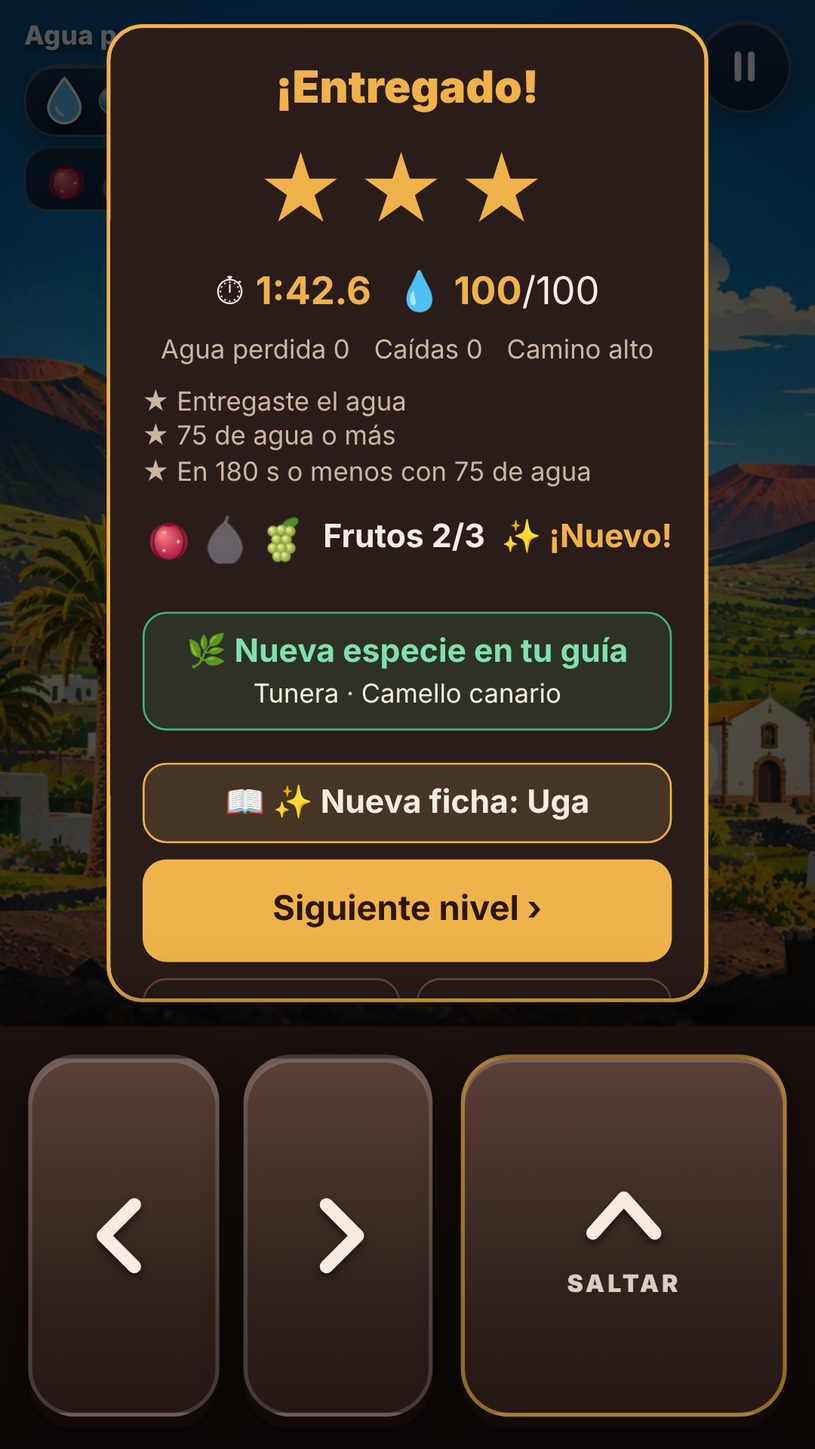
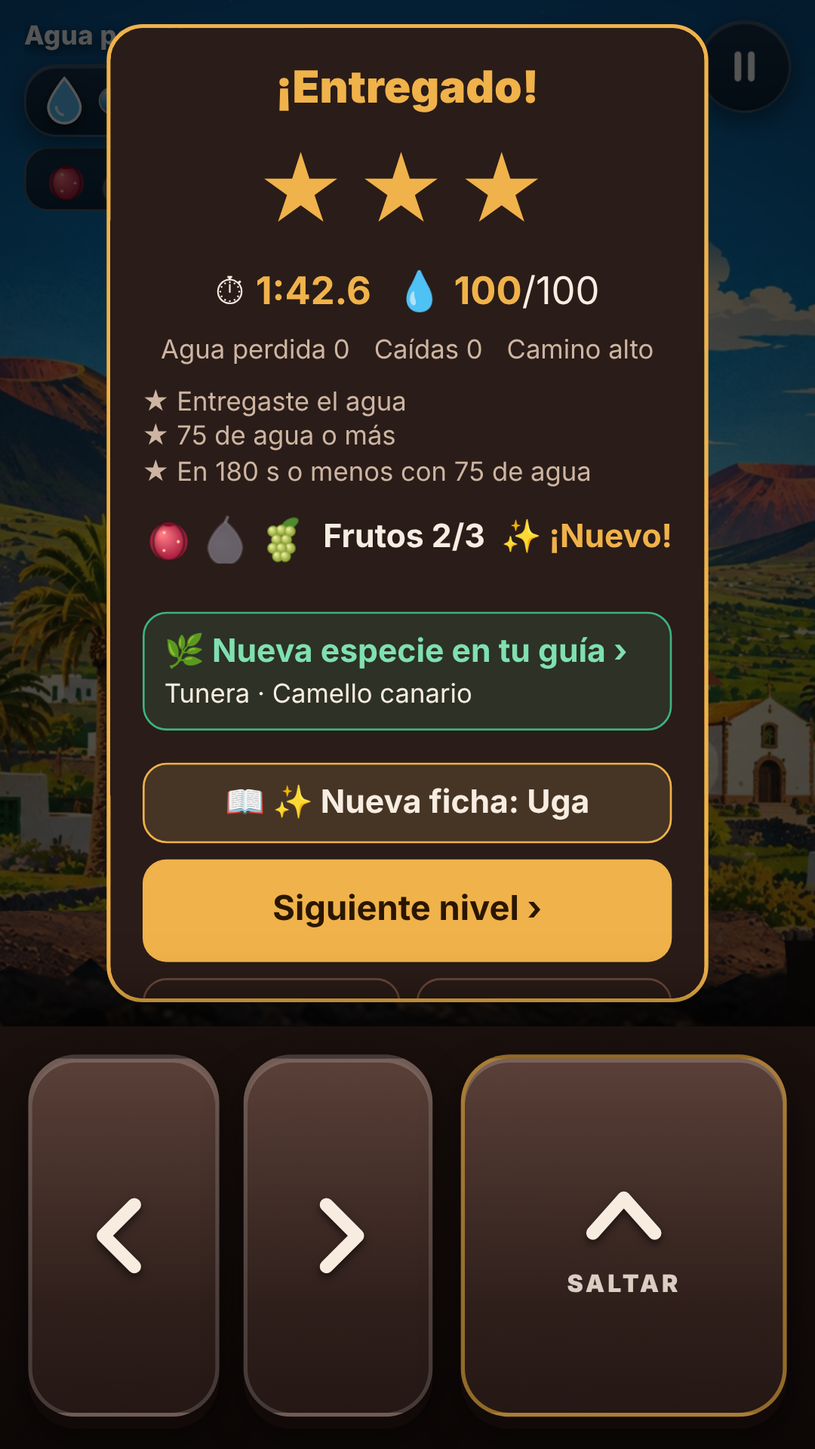
Parras de La Geria más fieles (hoyos, zanjas y zocos en media luna) y avisos del final que abren la guía y el cuaderno
Claude-Session: https://claude.ai/code/session_01H2Jf8v1MHtV6zTpVoU4WWj

Changed region(s): [[0.1833, 0.4375, 0.7639, 0.5]]

diff --git a/docs/app/i18n-fr.js b/docs/app/i18n-fr.js
@@ -2834,7 +2834,19 @@ window.I18N["fr:martin"] = Object.assign(window.I18N["fr:martin"] || {}, {
 "Ministerio de Agricultura: libro genealógico de la raza Camello Canario": "Ministère espagnol de l'Agriculture : livre généalogique de la race Chameau canarien",
 "Un pequeño crustáceo de color rojo que vive en las salinas.": "Un petit crustacé rouge qui vit dans les salines.",
 "Junto con un alga, Dunaliella salina, da a las salinas de Janubio su color rojizo.": "Avec une algue, Dunaliella salina, elle donne aux salines de Janubio leur couleur rougeâtre.",
-"Banco de Datos de Biodiversidad de Canarias: pita": "Banque de données sur la biodiversité des Canaries : agave"
+"Banco de Datos de Biodiversidad de Canarias: pita": "Banque de données sur la biodiversité des Canaries : agave",
+"Parra (vid)": "Vigne (parra)",
+"En Lanzarote se cultiva de dos formas tradicionales: en hoyos y en zanjas. Los hoyos se excavan en forma de cono en el picón para que la parra llegue a la tierra de debajo; las zanjas tienen muros que las separan.": "À Lanzarote, on la cultive de deux façons traditionnelles : en trous et en tranchées. Les trous sont creusés en cône dans le picón pour que la vigne atteigne la terre en dessous ; les tranchées sont séparées par des murets.",
+"Para protegerla del viento se levantan zocos, pequeños muros de piedra en media luna. Sus vinos más destacados son los blancos de malvasía, y la vendimia se hace en julio, antes que en ningún otro lugar de Europa.": "Pour la protéger du vent, on élève des zocos, de petits murets de pierre en demi-lune. Ses vins les plus réputés sont les blancs de malvoisie, et les vendanges ont lieu en juillet, plus tôt que partout ailleurs en Europe.",
+"Turespaña: viñedos de La Geria": "Turespaña : vignobles de La Geria",
+"FAO: sistemas agrícolas de Lanzarote (Patrimonio Agrícola Mundial)": "FAO : systèmes agricoles de Lanzarote (patrimoine agricole mondial)",
+"Ministerio de Agricultura: los enarenados de Lanzarote": "Ministère espagnol de l'Agriculture : les enarenados de Lanzarote",
+"Papeles de Geografía (Universidad de Murcia): el viñedo de La Geria": "Papeles de Geografía (Université de Murcie) : le vignoble de La Geria",
+"Las erupciones de Timanfaya, entre 1730 y 1736, cubrieron estas tierras con una gruesa capa de ceniza volcánica: el picón.": "Les éruptions de Timanfaya, entre 1730 et 1736, ont recouvert ces terres d'une épaisse couche de cendre volcanique : le picón.",
+"Para plantar las parras se excava la capa de picón, de unos dos metros y medio, hasta llegar a la tierra que quedó enterrada. El hoyo suele protegerse del viento con un pequeño muro de piedra.": "Pour planter les vignes, on creuse la couche de picón, d'environ deux mètres et demi, jusqu'à la terre restée enfouie. Le trou est souvent protégé du vent par un petit muret de pierre.",
+"La tierra volcánica absorbe y conserva la humedad en una isla donde casi no llueve. La variedad de uva más abundante es la malvasía. Fue declarada Parque Natural en 1987 y hoy es Paisaje Protegido, con 5.255 hectáreas.": "La terre volcanique absorbe et conserve l'humidité sur une île où il ne pleut presque pas. Le cépage le plus répandu est la malvoisie. Déclarée parc naturel en 1987, c'est aujourd'hui un paysage protégé de 5 255 hectares.",
+"Cada hoyo mide unos 3 metros de diámetro, y en una hectárea caben hasta 350, según lo profundos que sean.": "Chaque trou mesure environ 3 mètres de diamètre, et on peut en faire jusqu'à 350 par hectare, selon leur profondeur.",
+"En plena Geria está el Volcán del Cuervo, el primero de las erupciones de Timanfaya. Hoy se puede entrar a pie en su cráter por un sendero señalizado de alrededor de una hora.": "Au cœur de La Geria se trouve le Volcán del Cuervo, le premier des éruptions de Timanfaya. On peut aujourd'hui entrer à pied dans son cratère par un sentier balisé d'environ une heure."
 });
 window.I18N["fr:poker"] = Object.assign(window.I18N["fr:poker"] || {}, {
 "Carta alta": "Carte haute",

diff --git a/www/i18n-fr.js b/www/i18n-fr.js
@@ -2834,7 +2834,19 @@ window.I18N["fr:martin"] = Object.assign(window.I18N["fr:martin"] || {}, {
 "Ministerio de Agricultura: libro genealógico de la raza Camello Canario": "Ministère espagnol de l'Agriculture : livre généalogique de la race Chameau canarien",
 "Un pequeño crustáceo de color rojo que vive en las salinas.": "Un petit crustacé rouge qui vit dans les salines.",
 "Junto con un alga, Dunaliella salina, da a las salinas de Janubio su color rojizo.": "Avec une algue, Dunaliella salina, elle donne aux salines de Janubio leur couleur rougeâtre.",
-"Banco de Datos de Biodiversidad de Canarias: pita": "Banque de données sur la biodiversité des Canaries : agave"
+"Banco de Datos de Biodiversidad de Canarias: pita": "Banque de données sur la biodiversité des Canaries : agave",
+"Parra (vid)": "Vigne (parra)",
+"En Lanzarote se cultiva de dos formas tradicionales: en hoyos y en zanjas. Los hoyos se excavan en forma de cono en el picón para que la parra llegue a la tierra de debajo; las zanjas tienen muros que las separan.": "À Lanzarote, on la cultive de deux façons traditionnelles : en trous et en tranchées. Les trous sont creusés en cône dans le picón pour que la vigne atteigne la terre en dessous ; les tranchées sont séparées par des murets.",
+"Para protegerla del viento se levantan zocos, pequeños muros de piedra en media luna. Sus vinos más destacados son los blancos de malvasía, y la vendimia se hace en julio, antes que en ningún otro lugar de Europa.": "Pour la protéger du vent, on élève des zocos, de petits murets de pierre en demi-lune. Ses vins les plus réputés sont les blancs de malvoisie, et les vendanges ont lieu en juillet, plus tôt que partout ailleurs en Europe.",
+"Turespaña: viñedos de La Geria": "Turespaña : vignobles de La Geria",
+"FAO: sistemas agrícolas de Lanzarote (Patrimonio Agrícola Mundial)": "FAO : systèmes agricoles de Lanzarote (patrimoine agricole mondial)",
+"Ministerio de Agricultura: los enarenados de Lanzarote": "Ministère espagnol de l'Agriculture : les enarenados de Lanzarote",
+"Papeles de Geografía (Universidad de Murcia): el viñedo de La Geria": "Papeles de Geografía (Université de Murcie) : le vignoble de La Geria",
+"Las erupciones de Timanfaya, entre 1730 y 1736, cubrieron estas tierras con una gruesa capa de ceniza volcánica: el picón.": "Les éruptions de Timanfaya, entre 1730 et 1736, ont recouvert ces terres d'une épaisse couche de cendre volcanique : le picón.",
+"Para plantar las parras se excava la capa de picón, de unos dos metros y medio, hasta llegar a la tierra que quedó enterrada. El hoyo suele protegerse del viento con un pequeño muro de piedra.": "Pour planter les vignes, on creuse la couche de picón, d'environ deux mètres et demi, jusqu'à la terre restée enfouie. Le trou est souvent protégé du vent par un petit muret de pierre.",
+"La tierra volcánica absorbe y conserva la humedad en una isla donde casi no llueve. La variedad de uva más abundante es la malvasía. Fue declarada Parque Natural en 1987 y hoy es Paisaje Protegido, con 5.255 hectáreas.": "La terre volcanique absorbe et conserve l'humidité sur une île où il ne pleut presque pas. Le cépage le plus répandu est la malvoisie. Déclarée parc naturel en 1987, c'est aujourd'hui un paysage protégé de 5 255 hectares.",
+"Cada hoyo mide unos 3 metros de diámetro, y en una hectárea caben hasta 350, según lo profundos que sean.": "Chaque trou mesure environ 3 mètres de diamètre, et on peut en faire jusqu'à 350 par hectare, selon leur profondeur.",
+"En plena Geria está el Volcán del Cuervo, el primero de las erupciones de Timanfaya. Hoy se puede entrar a pie en su cráter por un sendero señalizado de alrededor de una hora.": "Au cœur de La Geria se trouve le Volcán del Cuervo, le premier des éruptions de Timanfaya. On peut aujourd'hui entrer à pied dans son cratère par un sentier balisé d'environ une heure."
 });
 window.I18N["fr:poker"] = Object.assign(window.I18N["fr:poker"] || {}, {
 "Carta alta": "Carte haute",

diff --git a/docs/app/i18n-de.js b/docs/app/i18n-de.js
@@ -2845,7 +2845,19 @@ window.I18N["de:martin"] = Object.assign(window.I18N["de:martin"] || {}, {
 "Ministerio de Agricultura: libro genealógico de la raza Camello Canario": "Spanisches Landwirtschaftsministerium: Herdbuch der Rasse Kanarisches Kamel",
 "Un pequeño crustáceo de color rojo que vive en las salinas.": "Ein kleines rotes Krebstier, das in den Salinen lebt.",
 "Junto con un alga, Dunaliella salina, da a las salinas de Janubio su color rojizo.": "Zusammen mit einer Alge, Dunaliella salina, gibt er den Salinen von Janubio ihre rötliche Farbe.",
-"Banco de Datos de Biodiversidad de Canarias: pita": "Biodiversitätsdatenbank der Kanaren: Agave"
+"Banco de Datos de Biodiversidad de Canarias: pita": "Biodiversitätsdatenbank der Kanaren: Agave",
+"Parra (vid)": "Weinrebe (Parra)",
+"En Lanzarote se cultiva de dos formas tradicionales: en hoyos y en zanjas. Los hoyos se excavan en forma de cono en el picón para que la parra llegue a la tierra de debajo; las zanjas tienen muros que las separan.": "Auf Lanzarote wird sie auf zwei traditionelle Arten angebaut: in Mulden und in Gräben. Die Mulden werden kegelförmig in den Picón gegraben, damit die Rebe die Erde darunter erreicht; die Gräben sind durch Mauern getrennt.",
+"Para protegerla del viento se levantan zocos, pequeños muros de piedra en media luna. Sus vinos más destacados son los blancos de malvasía, y la vendimia se hace en julio, antes que en ningún otro lugar de Europa.": "Zum Schutz vor dem Wind errichtet man Zocos, kleine halbmondförmige Steinmauern. Die bekanntesten Weine sind Weißweine aus Malvasía, und die Weinlese findet im Juli statt, früher als irgendwo sonst in Europa.",
+"Turespaña: viñedos de La Geria": "Turespaña: Weinberge von La Geria",
+"FAO: sistemas agrícolas de Lanzarote (Patrimonio Agrícola Mundial)": "FAO: Agrarsysteme Lanzarotes (Weltagrarerbe)",
+"Ministerio de Agricultura: los enarenados de Lanzarote": "Spanisches Landwirtschaftsministerium: die Enarenados Lanzarotes",
+"Papeles de Geografía (Universidad de Murcia): el viñedo de La Geria": "Papeles de Geografía (Universität Murcia): der Weinbau in La Geria",
+"Las erupciones de Timanfaya, entre 1730 y 1736, cubrieron estas tierras con una gruesa capa de ceniza volcánica: el picón.": "Die Ausbrüche von Timanfaya zwischen 1730 und 1736 bedeckten dieses Land mit einer dicken Schicht Vulkanasche: dem Picón.",
+"Para plantar las parras se excava la capa de picón, de unos dos metros y medio, hasta llegar a la tierra que quedó enterrada. El hoyo suele protegerse del viento con un pequeño muro de piedra.": "Um die Reben zu pflanzen, gräbt man die etwa zweieinhalb Meter dicke Picón-Schicht bis zur verschütteten Erde ab. Die Mulde wird meist mit einer kleinen Steinmauer vor dem Wind geschützt.",
+"La tierra volcánica absorbe y conserva la humedad en una isla donde casi no llueve. La variedad de uva más abundante es la malvasía. Fue declarada Parque Natural en 1987 y hoy es Paisaje Protegido, con 5.255 hectáreas.": "Die vulkanische Erde nimmt Feuchtigkeit auf und hält sie fest, auf einer Insel, auf der es fast nie regnet. Die häufigste Rebsorte ist Malvasía. 1987 wurde La Geria zum Naturpark erklärt und ist heute ein Landschaftsschutzgebiet von 5.255 Hektar.",
+"Cada hoyo mide unos 3 metros de diámetro, y en una hectárea caben hasta 350, según lo profundos que sean.": "Jede Mulde hat etwa 3 Meter Durchmesser, und je nach Tiefe passen bis zu 350 auf einen Hektar.",
+"En plena Geria está el Volcán del Cuervo, el primero de las erupciones de Timanfaya. Hoy se puede entrar a pie en su cráter por un sendero señalizado de alrededor de una hora.": "Mitten in La Geria liegt der Volcán del Cuervo, der erste der Ausbrüche von Timanfaya. Heute kann man auf einem ausgeschilderten Weg von etwa einer Stunde zu Fuß in seinen Krater gehen."
 });
 window.I18N["de:poker"] = Object.assign(window.I18N["de:poker"] || {}, {
 "Carta alta": "Höchste Karte",

diff --git a/www/i18n-de.js b/www/i18n-de.js
@@ -2845,7 +2845,19 @@ window.I18N["de:martin"] = Object.assign(window.I18N["de:martin"] || {}, {
 "Ministerio de Agricultura: libro genealógico de la raza Camello Canario": "Spanisches Landwirtschaftsministerium: Herdbuch der Rasse Kanarisches Kamel",
 "Un pequeño crustáceo de color rojo que vive en las salinas.": "Ein kleines rotes Krebstier, das in den Salinen lebt.",
 "Junto con un alga, Dunaliella salina, da a las salinas de Janubio su color rojizo.": "Zusammen mit einer Alge, Dunaliella salina, gibt er den Salinen von Janubio ihre rötliche Farbe.",
-"Banco de Datos de Biodiversidad de Canarias: pita": "Biodiversitätsdatenbank der Kanaren: Agave"
+"Banco de Datos de Biodiversidad de Canarias: pita": "Biodiversitätsdatenbank der Kanaren: Agave",
+"Parra (vid)": "Weinrebe (Parra)",
+"En Lanzarote se cultiva de dos formas tradicionales: en hoyos y en zanjas. Los hoyos se excavan en forma de cono en el picón para que la parra llegue a la tierra de debajo; las zanjas tienen muros que las separan.": "Auf Lanzarote wird sie auf zwei traditionelle Arten angebaut: in Mulden und in Gräben. Die Mulden werden kegelförmig in den Picón gegraben, damit die Rebe die Erde darunter erreicht; die Gräben sind durch Mauern getrennt.",
+"Para protegerla del viento se levantan zocos, pequeños muros de piedra en media luna. Sus vinos más destacados son los blancos de malvasía, y la vendimia se hace en julio, antes que en ningún otro lugar de Europa.": "Zum Schutz vor dem Wind errichtet man Zocos, kleine halbmondförmige Steinmauern. Die bekanntesten Weine sind Weißweine aus Malvasía, und die Weinlese findet im Juli statt, früher als irgendwo sonst in Europa.",
+"Turespaña: viñedos de La Geria": "Turespaña: Weinberge von La Geria",
+"FAO: sistemas agrícolas de Lanzarote (Patrimonio Agrícola Mundial)": "FAO: Agrarsysteme Lanzarotes (Weltagrarerbe)",
+"Ministerio de Agricultura: los enarenados de Lanzarote": "Spanisches Landwirtschaftsministerium: die Enarenados Lanzarotes",
+"Papeles de Geografía (Universidad de Murcia): el viñedo de La Geria": "Papeles de Geografía (Universität Murcia): der Weinbau in La Geria",
+"Las erupciones de Timanfaya, entre 1730 y 1736, cubrieron estas tierras con una gruesa capa de ceniza volcánica: el picón.": "Die Ausbrüche von Timanfaya zwischen 1730 und 1736 bedeckten dieses Land mit einer dicken Schicht Vulkanasche: dem Picón.",
+"Para plantar las parras se excava la capa de picón, de unos dos metros y medio, hasta llegar a la tierra que quedó enterrada. El hoyo suele protegerse del viento con un pequeño muro de piedra.": "Um die Reben zu pflanzen, gräbt man die etwa zweieinhalb Meter dicke Picón-Schicht bis zur verschütteten Erde ab. Die Mulde wird meist mit einer kleinen Steinmauer vor dem Wind geschützt.",
+"La tierra volcánica absorbe y conserva la humedad en una isla donde casi no llueve. La variedad de uva más abundante es la malvasía. Fue declarada Parque Natural en 1987 y hoy es Paisaje Protegido, con 5.255 hectáreas.": "Die vulkanische Erde nimmt Feuchtigkeit auf und hält sie fest, auf einer Insel, auf der es fast nie regnet. Die häufigste Rebsorte ist Malvasía. 1987 wurde La Geria zum Naturpark erklärt und ist heute ein Landschaftsschutzgebiet von 5.255 Hektar.",
+"Cada hoyo mide unos 3 metros de diámetro, y en una hectárea caben hasta 350, según lo profundos que sean.": "Jede Mulde hat etwa 3 Meter Durchmesser, und je nach Tiefe passen bis zu 350 auf einen Hektar.",
+"En plena Geria está el Volcán del Cuervo, el primero de las erupciones de Timanfaya. Hoy se puede entrar a pie en su cráter por un sendero señalizado de alrededor de una hora.": "Mitten in La Geria liegt der Volcán del Cuervo, der erste der Ausbrüche von Timanfaya. Heute kann man auf einem ausgeschilderten Weg von etwa einer Stunde zu Fuß in seinen Krater gehen."
 });
 window.I18N["de:poker"] = Object.assign(window.I18N["de:poker"] || {}, {
 "Carta alta": "Höchste Karte",

diff --git a/docs/app/i18n-it.js b/docs/app/i18n-it.js
@@ -2845,7 +2845,19 @@ window.I18N["it:martin"] = Object.assign(window.I18N["it:martin"] || {}, {
 "Ministerio de Agricultura: libro genealógico de la raza Camello Canario": "Ministero dell'Agricoltura spagnolo: libro genealogico della razza Cammello canario",
 "Un pequeño crustáceo de color rojo que vive en las salinas.": "Un piccolo crostaceo rosso che vive nelle saline.",
 "Junto con un alga, Dunaliella salina, da a las salinas de Janubio su color rojizo.": "Insieme a un'alga, Dunaliella salina, dà alle saline di Janubio il loro colore rossastro.",
-"Banco de Datos de Biodiversidad de Canarias: pita": "Banca dati della biodiversità delle Canarie: agave"
+"Banco de Datos de Biodiversidad de Canarias: pita": "Banca dati della biodiversità delle Canarie: agave",
+"Parra (vid)": "Vite (parra)",
+"En Lanzarote se cultiva de dos formas tradicionales: en hoyos y en zanjas. Los hoyos se excavan en forma de cono en el picón para que la parra llegue a la tierra de debajo; las zanjas tienen muros que las separan.": "A Lanzarote si coltiva in due modi tradizionali: in buche e in trincee. Le buche si scavano a cono nel picón perché la vite arrivi alla terra sottostante; le trincee sono separate da muretti.",
+"Para protegerla del viento se levantan zocos, pequeños muros de piedra en media luna. Sus vinos más destacados son los blancos de malvasía, y la vendimia se hace en julio, antes que en ningún otro lugar de Europa.": "Per proteggerla dal vento si alzano gli zocos, muretti di pietra a mezzaluna. I suoi vini più noti sono i bianchi di malvasia, e la vendemmia si fa a luglio, prima che in qualsiasi altro luogo d'Europa.",
+"Turespaña: viñedos de La Geria": "Turespaña: vigneti di La Geria",
+"FAO: sistemas agrícolas de Lanzarote (Patrimonio Agrícola Mundial)": "FAO: sistemi agricoli di Lanzarote (patrimonio agricolo mondiale)",
+"Ministerio de Agricultura: los enarenados de Lanzarote": "Ministero dell'Agricoltura spagnolo: gli enarenados di Lanzarote",
+"Papeles de Geografía (Universidad de Murcia): el viñedo de La Geria": "Papeles de Geografía (Università di Murcia): il vigneto di La Geria",
+"Las erupciones de Timanfaya, entre 1730 y 1736, cubrieron estas tierras con una gruesa capa de ceniza volcánica: el picón.": "Le eruzioni di Timanfaya, tra il 1730 e il 1736, coprirono queste terre con uno spesso strato di cenere vulcanica: il picón.",
+"Para plantar las parras se excava la capa de picón, de unos dos metros y medio, hasta llegar a la tierra que quedó enterrada. El hoyo suele protegerse del viento con un pequeño muro de piedra.": "Per piantare le viti si scava lo strato di picón, di circa due metri e mezzo, fino alla terra rimasta sepolta. La buca di solito si protegge dal vento con un muretto di pietra.",
+"La tierra volcánica absorbe y conserva la humedad en una isla donde casi no llueve. La variedad de uva más abundante es la malvasía. Fue declarada Parque Natural en 1987 y hoy es Paisaje Protegido, con 5.255 hectáreas.": "La terra vulcanica assorbe e conserva l'umidità in un'isola dove quasi non piove. Il vitigno più diffuso è la malvasia. Fu dichiarata Parco Naturale nel 1987 e oggi è Paesaggio Protetto, con 5.255 ettari.",
+"Cada hoyo mide unos 3 metros de diámetro, y en una hectárea caben hasta 350, según lo profundos que sean.": "Ogni buca misura circa 3 metri di diametro, e in un ettaro ne stanno fino a 350, a seconda della profondità.",
+"En plena Geria está el Volcán del Cuervo, el primero de las erupciones de Timanfaya. Hoy se puede entrar a pie en su cráter por un sendero señalizado de alrededor de una hora.": "Nel cuore di La Geria si trova il Volcán del Cuervo, il primo delle eruzioni di Timanfaya. Oggi si può entrare a piedi nel suo cratere con un sentiero segnalato di circa un'ora."
 });
 window.I18N["it:poker"] = Object.assign(window.I18N["it:poker"] || {}, {
 "Carta alta": "Carta alta",

diff --git a/www/i18n-it.js b/www/i18n-it.js
@@ -2845,7 +2845,19 @@ window.I18N["it:martin"] = Object.assign(window.I18N["it:martin"] || {}, {
 "Ministerio de Agricultura: libro genealógico de la raza Camello Canario": "Ministero dell'Agricoltura spagnolo: libro genealogico della razza Cammello canario",
 "Un pequeño crustáceo de color rojo que vive en las salinas.": "Un piccolo crostaceo rosso che vive nelle saline.",
 "Junto con un alga, Dunaliella salina, da a las salinas de Janubio su color rojizo.": "Insieme a un'alga, Dunaliella salina, dà alle saline di Janubio il loro colore rossastro.",
-"Banco de Datos de Biodiversidad de Canarias: pita": "Banca dati della biodiversità delle Canarie: agave"
+"Banco de Datos de Biodiversidad de Canarias: pita": "Banca dati della biodiversità delle Canarie: agave",
+"Parra (vid)": "Vite (parra)",
+"En Lanzarote se cultiva de dos formas tradicionales: en hoyos y en zanjas. Los hoyos se excavan en forma de cono en el picón para que la parra llegue a la tierra de debajo; las zanjas tienen muros que las separan.": "A Lanzarote si coltiva in due modi tradizionali: in buche e in trincee. Le buche si scavano a cono nel picón perché la vite arrivi alla terra sottostante; le trincee sono separate da muretti.",
+"Para protegerla del viento se levantan zocos, pequeños muros de piedra en media luna. Sus vinos más destacados son los blancos de malvasía, y la vendimia se hace en julio, antes que en ningún otro lugar de Europa.": "Per proteggerla dal vento si alzano gli zocos, muretti di pietra a mezzaluna. I suoi vini più noti sono i bianchi di malvasia, e la vendemmia si fa a luglio, prima che in qualsiasi altro luogo d'Europa.",
+"Turespaña: viñedos de La Geria": "Turespaña: vigneti di La Geria",
+"FAO: sistemas agrícolas de Lanzarote (Patrimonio Agrícola Mundial)": "FAO: sistemi agricoli di Lanzarote (patrimonio agricolo mondiale)",
+"Ministerio de Agricultura: los enarenados de Lanzarote": "Ministero dell'Agricoltura spagnolo: gli enarenados di Lanzarote",
+"Papeles de Geografía (Universidad de Murcia): el viñedo de La Geria": "Papeles de Geografía (Università di Murcia): il vigneto di La Geria",
+"Las erupciones de Timanfaya, entre 1730 y 1736, cubrieron estas tierras con una gruesa capa de ceniza volcánica: el picón.": "Le eruzioni di Timanfaya, tra il 1730 e il 1736, coprirono queste terre con uno spesso strato di cenere vulcanica: il picón.",
+"Para plantar las parras se excava la capa de picón, de unos dos metros y medio, hasta llegar a la tierra que quedó enterrada. El hoyo suele protegerse del viento con un pequeño muro de piedra.": "Per piantare le viti si scava lo strato di picón, di circa due metri e mezzo, fino alla terra rimasta sepolta. La buca di solito si protegge dal vento con un muretto di pietra.",
+"La tierra volcánica absorbe y conserva la humedad en una isla donde casi no llueve. La variedad de uva más abundante es la malvasía. Fue declarada Parque Natural en 1987 y hoy es Paisaje Protegido, con 5.255 hectáreas.": "La terra vulcanica assorbe e conserva l'umidità in un'isola dove quasi non piove. Il vitigno più diffuso è la malvasia. Fu dichiarata Parco Naturale nel 1987 e oggi è Paesaggio Protetto, con 5.255 ettari.",
+"Cada hoyo mide unos 3 metros de diámetro, y en una hectárea caben hasta 350, según lo profundos que sean.": "Ogni buca misura circa 3 metri di diametro, e in un ettaro ne stanno fino a 350, a seconda della profondità.",
+"En plena Geria está el Volcán del Cuervo, el primero de las erupciones de Timanfaya. Hoy se puede entrar a pie en su cráter por un sendero señalizado de alrededor de una hora.": "Nel cuore di La Geria si trova il Volcán del Cuervo, il primo delle eruzioni di Timanfaya. Oggi si può entrare a piedi nel suo cratere con un sentiero segnalato di circa un'ora."
 });
 window.I18N["it:poker"] = Object.assign(window.I18N["it:poker"] || {}, {
 "Carta alta": "Carta alta",

diff --git a/docs/app/i18n-en.js b/docs/app/i18n-en.js
@@ -2846,7 +2846,19 @@ window.I18N["en:martin"] = Object.assign(window.I18N["en:martin"] || {}, {
 "Ministerio de Agricultura: libro genealógico de la raza Camello Canario": "Spanish Ministry of Agriculture: Canary camel herd book",
 "Un pequeño crustáceo de color rojo que vive en las salinas.": "A small red crustacean that lives in the salt pans.",
 "Junto con un alga, Dunaliella salina, da a las salinas de Janubio su color rojizo.": "Together with an alga, Dunaliella salina, it gives the Janubio salt pans their reddish colour.",
-"Banco de Datos de Biodiversidad de Canarias: pita": "Canary Islands Biodiversity Database: century plant"
+"Banco de Datos de Biodiversidad de Canarias: pita": "Canary Islands Biodiversity Database: century plant",
+"Parra (vid)": "Grapevine (parra)",
+"En Lanzarote se cultiva de dos formas tradicionales: en hoyos y en zanjas. Los hoyos se excavan en forma de cono en el picón para que la parra llegue a la tierra de debajo; las zanjas tienen muros que las separan.": "In Lanzarote it is grown in two traditional ways: in pits and in trenches. The pits are dug as cones in the picón so the vine can reach the soil underneath; the trenches have walls separating them.",
+"Para protegerla del viento se levantan zocos, pequeños muros de piedra en media luna. Sus vinos más destacados son los blancos de malvasía, y la vendimia se hace en julio, antes que en ningún otro lugar de Europa.": "To protect it from the wind, zocos are built: small half-moon stone walls. Its best-known wines are Malvasía whites, and the grape harvest takes place in July, earlier than anywhere else in Europe.",
+"Turespaña: viñedos de La Geria": "Turespaña: La Geria vineyards",
+"FAO: sistemas agrícolas de Lanzarote (Patrimonio Agrícola Mundial)": "FAO: agricultural systems of Lanzarote (Globally Important Agricultural Heritage)",
+"Ministerio de Agricultura: los enarenados de Lanzarote": "Spanish Ministry of Agriculture: Lanzarote's sand-mulched fields",
+"Papeles de Geografía (Universidad de Murcia): el viñedo de La Geria": "Papeles de Geografía (University of Murcia): the vineyards of La Geria",
+"Las erupciones de Timanfaya, entre 1730 y 1736, cubrieron estas tierras con una gruesa capa de ceniza volcánica: el picón.": "The Timanfaya eruptions, between 1730 and 1736, covered this land with a thick layer of volcanic ash: the picón.",
+"Para plantar las parras se excava la capa de picón, de unos dos metros y medio, hasta llegar a la tierra que quedó enterrada. El hoyo suele protegerse del viento con un pequeño muro de piedra.": "To plant the vines, the layer of picón, about two and a half metres thick, is dug out down to the buried soil. The pit is usually protected from the wind by a small stone wall.",
+"La tierra volcánica absorbe y conserva la humedad en una isla donde casi no llueve. La variedad de uva más abundante es la malvasía. Fue declarada Parque Natural en 1987 y hoy es Paisaje Protegido, con 5.255 hectáreas.": "The volcanic soil absorbs and keeps moisture on an island where it hardly ever rains. The most common grape variety is Malvasía. It was declared a Natural Park in 1987 and is now a Protected Landscape covering 5,255 hectares.",
+"Cada hoyo mide unos 3 metros de diámetro, y en una hectárea caben hasta 350, según lo profundos que sean.": "Each pit is about 3 metres across, and up to 350 fit in one hectare, depending on how deep they are.",
+"En plena Geria está el Volcán del Cuervo, el primero de las erupciones de Timanfaya. Hoy se puede entrar a pie en su cráter por un sendero señalizado de alrededor de una hora.": "In the heart of La Geria stands the Volcán del Cuervo, the first of the Timanfaya eruptions. Today you can walk into its crater on a signposted trail of about one hour."
 });
 window.I18N["en:poker"] = Object.assign(window.I18N["en:poker"] || {}, {
 "Carta alta": "High card",

diff --git a/www/i18n-en.js b/www/i18n-en.js
@@ -2846,7 +2846,19 @@ window.I18N["en:martin"] = Object.assign(window.I18N["en:martin"] || {}, {
 "Ministerio de Agricultura: libro genealógico de la raza Camello Canario": "Spanish Ministry of Agriculture: Canary camel herd book",
 "Un pequeño crustáceo de color rojo que vive en las salinas.": "A small red crustacean that lives in the salt pans.",
 "Junto con un alga, Dunaliella salina, da a las salinas de Janubio su color rojizo.": "Together with an alga, Dunaliella salina, it gives the Janubio salt pans their reddish colour.",
-"Banco de Datos de Biodiversidad de Canarias: pita": "Canary Islands Biodiversity Database: century plant"
+"Banco de Datos de Biodiversidad de Canarias: pita": "Canary Islands Biodiversity Database: century plant",
+"Parra (vid)": "Grapevine (parra)",
+"En Lanzarote se cultiva de dos formas tradicionales: en hoyos y en zanjas. Los hoyos se excavan en forma de cono en el picón para que la parra llegue a la tierra de debajo; las zanjas tienen muros que las separan.": "In Lanzarote it is grown in two traditional ways: in pits and in trenches. The pits are dug as cones in the picón so the vine can reach the soil underneath; the trenches have walls separating them.",
+"Para protegerla del viento se levantan zocos, pequeños muros de piedra en media luna. Sus vinos más destacados son los blancos de malvasía, y la vendimia se hace en julio, antes que en ningún otro lugar de Europa.": "To protect it from the wind, zocos are built: small half-moon stone walls. Its best-known wines are Malvasía whites, and the grape harvest takes place in July, earlier than anywhere else in Europe.",
+"Turespaña: viñedos de La Geria": "Turespaña: La Geria vineyards",
+"FAO: sistemas agrícolas de Lanzarote (Patrimonio Agrícola Mundial)": "FAO: agricultural systems of Lanzarote (Globally Important Agricultural Heritage)",
+"Ministerio de Agricultura: los enarenados de Lanzarote": "Spanish Ministry of Agriculture: Lanzarote's sand-mulched fields",
+"Papeles de Geografía (Universidad de Murcia): el viñedo de La Geria": "Papeles de Geografía (University of Murcia): the vineyards of La Geria",
+"Las erupciones de Timanfaya, entre 1730 y 1736, cubrieron estas tierras con una gruesa capa de ceniza volcánica: el picón.": "The Timanfaya eruptions, between 1730 and 1736, covered this land with a thick layer of volcanic ash: the picón.",
+"Para plantar las parras se excava la capa de picón, de unos dos metros y medio, hasta llegar a la tierra que quedó enterrada. El hoyo suele protegerse del viento con un pequeño muro de piedra.": "To plant the vines, the layer of picón, about two and a half metres thick, is dug out down to the buried soil. The pit is usually protected from the wind by a small stone wall.",
+"La tierra volcánica absorbe y conserva la humedad en una isla donde casi no llueve. La variedad de uva más abundante es la malvasía. Fue declarada Parque Natural en 1987 y hoy es Paisaje Protegido, con 5.255 hectáreas.": "The volcanic soil absorbs and keeps moisture on an island where it hardly ever rains. The most common grape variety is Malvasía. It was declared a Natural Park in 1987 and is now a Protected Landscape covering 5,255 hectares.",
+"Cada hoyo mide unos 3 metros de diámetro, y en una hectárea caben hasta 350, según lo profundos que sean.": "Each pit is about 3 metres across, and up to 350 fit in one hectare, depending on how deep they are.",
+"En plena Geria está el Volcán del Cuervo, el primero de las erupciones de Timanfaya. Hoy se puede entrar a pie en su cráter por un sendero señalizado de alrededor de una hora.": "In the heart of La Geria stands the Volcán del Cuervo, the first of the Timanfaya eruptions. Today you can walk into its crater on a signposted trail of about one hour."
 });
 window.I18N["en:poker"] = Object.assign(window.I18N["en:poker"] || {}, {
 "Carta alta": "High card",

diff --git a/docs/app/juego.js b/docs/app/juego.js
@@ -457,7 +457,7 @@ function terminar() {
       if (nuevos.length) { const sa = selloAbierto(RUN.idx), abiertos = [0, 1].map(mundoCompleto); p.obj = [...antes, ...nuevos]; nu.frutos = nuevos.map(id => (L.objetos.find(o => o.id === id) || {}).kind).filter(Boolean); if (!sa && selloAbierto(RUN.idx)) nu.sello = true; const m = [0, 1].find(k => !abiertos[k] && mundoCompleto(k)); if (m != null) nu.secreto = m; }
       const f0 = S.fant && S.fant[L.level_id], firma = firmaNivel(L);
       if (!f0 || f0.firma !== firma || res.ms < f0.ms) { S.fant = S.fant || {}; S.fant[L.level_id] = { ms: res.ms, firma, runs: RUN.rec.runs(), mod: s.mod !== 'normal' ? s.mod : undefined }; if (f0 && f0.firma === firma) nu.fantasma = true; }
-      { const nuevas = descubreEn(RUN.idx).filter(e => !espAntes.has(e)); if (nuevas.length) nu.especies = nuevas.map(e => (NAT.find(x => x.id === e) || {}).nombre).filter(Boolean); }
+      { const nuevas = descubreEn(RUN.idx).filter(e => !espAntes.has(e)); if (nuevas.length) { nu.especies = nuevas.map(e => (NAT.find(x => x.id === e) || {}).nombre).filter(Boolean); nu.espIds = nuevas; } }
       S.archive.unshift({ id: uid(), created: Date.now(), finished: Date.now(), mode: 'nivel', nivel: L.level_id, ms: res.ms, agua: res.agua, estrellas: res.estrellas, caidas: res.caidas, ruta: s.ruta || '' });
       S.archive = S.archive.slice(0, MAX_ARCHIVE);
     } else if (RUN.modo === 'diario' || RUN.modo === 'practica') {
@@ -723,8 +723,8 @@ function ponOverlay() {
       <ul class="ov-r">${razon.map(x => `<li>${esc(x)}</li>`).join('')}</ul>
       ${frutosDe(n).length ? `<div class="ov-fru"><span id="ovFru"></span><span>${r.objetos.length === frutosDe(n).length ? '¡Todos los frutos!' : `Frutos ${r.objetos.length}/${frutosDe(n).length}`}</span>${nu.frutos && nu.frutos.length ? '<span class="ov-nue">✨ ¡Nuevo!</span>' : ''}</div>` : ''}
       ${nu.secreto != null ? `<div class="ov-se"><b>✨ ¡Has abierto un nivel secreto!</b><span>Búscalo en el mapa, al final del Mundo ${nu.secreto + 1}.</span></div>` : ''}
-      ${nu.especies && nu.especies.length ? `<div class="ov-gu"><b>🌿 Nueva especie en tu guía</b><span>${nu.especies.map(esc).join(' · ')}</span></div>` : ''}
-      ${nu.sello ? '<div class="ov-se"><b>🏅 ¡Nuevo sello en el cuaderno!</b><span>Ábrelo para ver una curiosidad más de este lugar.</span></div>' : ''}
+      ${nu.especies && nu.especies.length ? `<button class="ov-gu ov-ir" id="ovGu"><b>🌿 Nueva especie en tu guía</b><span>${nu.especies.map(esc).join(' · ')}</span></button>` : ''}
+      ${nu.sello ? '<button class="ov-se ov-ir" id="ovSe"><b>🏅 ¡Nuevo sello en el cuaderno!</b><span>Ábrelo para ver una curiosidad más de este lugar.</span></button>' : ''}
       ${nu.fantasma ? '<div class="ov-fan">👻 Tu nueva mejor carrera será tu rival la próxima vez.</div>' : ''}
       ${RUN.modo === 'diario' ? `<div class="ov-env" id="ovEnv">${envioTxt()}</div>` : ''}
       ${RUN.modo === 'nivel' && LUG[RUN.idx] ? `<button class="ov-fi" id="ovFi">📖 ${(RUN.nuevo || {}).primera ? '✨ Nueva ficha: ' : 'Conoce '}${esc(LUG[RUN.idx].lugar)}</button>` : ''}
@@ -734,6 +734,8 @@ function ponOverlay() {
     const rk = $('#ovRank'); if (rk) rk.onclick = () => openRanking();
     const mp = $('#ovMapa'); if (mp) mp.onclick = salirAlMapa;
     const fi = $('#ovFi'); if (fi) fi.onclick = () => openFicha(RUN.idx, false);
+    const se = $('#ovSe'); if (se) se.onclick = () => openFicha(RUN.idx, false);   // la ficha enseña el sello y la curiosidad nueva
+    const gu = $('#ovGu'); if (gu) gu.onclick = () => { const ids = nu.espIds || []; if (ids.length === 1) openEspecie(ids[0]); else openGuia(); };
     pintaFrutos($('#ovFru'), n, s.obj || {}, 26);
   }
 }

diff --git a/www/juego.js b/www/juego.js
@@ -457,7 +457,7 @@ function terminar() {
       if (nuevos.length) { const sa = selloAbierto(RUN.idx), abiertos = [0, 1].map(mundoCompleto); p.obj = [...antes, ...nuevos]; nu.frutos = nuevos.map(id => (L.objetos.find(o => o.id === id) || {}).kind).filter(Boolean); if (!sa && selloAbierto(RUN.idx)) nu.sello = true; const m = [0, 1].find(k => !abiertos[k] && mundoCompleto(k)); if (m != null) nu.secreto = m; }
       const f0 = S.fant && S.fant[L.level_id], firma = firmaNivel(L);
       if (!f0 || f0.firma !== firma || res.ms < f0.ms) { S.fant = S.fant || {}; S.fant[L.level_id] = { ms: res.ms, firma, runs: RUN.rec.runs(), mod: s.mod !== 'normal' ? s.mod : undefined }; if (f0 && f0.firma === firma) nu.fantasma = true; }
-      { const nuevas = descubreEn(RUN.idx).filter(e => !espAntes.has(e)); if (nuevas.length) nu.especies = nuevas.map(e => (NAT.find(x => x.id === e) || {}).nombre).filter(Boolean); }
+      { const nuevas = descubreEn(RUN.idx).filter(e => !espAntes.has(e)); if (nuevas.length) { nu.especies = nuevas.map(e => (NAT.find(x => x.id === e) || {}).nombre).filter(Boolean); nu.espIds = nuevas; } }
       S.archive.unshift({ id: uid(), created: Date.now(), finished: Date.now(), mode: 'nivel', nivel: L.level_id, ms: res.ms, agua: res.agua, estrellas: res.estrellas, caidas: res.caidas, ruta: s.ruta || '' });
       S.archive = S.archive.slice(0, MAX_ARCHIVE);
     } else if (RUN.modo === 'diario' || RUN.modo === 'practica') {
@@ -723,8 +723,8 @@ function ponOverlay() {
       <ul class="ov-r">${razon.map(x => `<li>${esc(x)}</li>`).join('')}</ul>
       ${frutosDe(n).length ? `<div class="ov-fru"><span id="ovFru"></span><span>${r.objetos.length === frutosDe(n).length ? '¡Todos los frutos!' : `Frutos ${r.objetos.length}/${frutosDe(n).length}`}</span>${nu.frutos && nu.frutos.length ? '<span class="ov-nue">✨ ¡Nuevo!</span>' : ''}</div>` : ''}
       ${nu.secreto != null ? `<div class="ov-se"><b>✨ ¡Has abierto un nivel secreto!</b><span>Búscalo en el mapa, al final del Mundo ${nu.secreto + 1}.</span></div>` : ''}
-      ${nu.especies && nu.especies.length ? `<div class="ov-gu"><b>🌿 Nueva especie en tu guía</b><span>${nu.especies.map(esc).join(' · ')}</span></div>` : ''}
-      ${nu.sello ? '<div class="ov-se"><b>🏅 ¡Nuevo sello en el cuaderno!</b><span>Ábrelo para ver una curiosidad más de este lugar.</span></div>' : ''}
+      ${nu.especies && nu.especies.length ? `<button class="ov-gu ov-ir" id="ovGu"><b>🌿 Nueva especie en tu guía</b><span>${nu.especies.map(esc).join(' · ')}</span></button>` : ''}
+      ${nu.sello ? '<button class="ov-se ov-ir" id="ovSe"><b>🏅 ¡Nuevo sello en el cuaderno!</b><span>Ábrelo para ver una curiosidad más de este lugar.</span></button>' : ''}
       ${nu.fantasma ? '<div class="ov-fan">👻 Tu nueva mejor carrera será tu rival la próxima vez.</div>' : ''}
       ${RUN.modo === 'diario' ? `<div class="ov-env" id="ovEnv">${envioTxt()}</div>` : ''}
       ${RUN.modo === 'nivel' && LUG[RUN.idx] ? `<button class="ov-fi" id="ovFi">📖 ${(RUN.nuevo || {}).primera ? '✨ Nueva ficha: ' : 'Conoce '}${esc(LUG[RUN.idx].lugar)}</button>` : ''}
@@ -734,6 +734,8 @@ function ponOverlay() {
     const rk = $('#ovRank'); if (rk) rk.onclick = () => openRanking();
     const mp = $('#ovMapa'); if (mp) mp.onclick = salirAlMapa;
     const fi = $('#ovFi'); if (fi) fi.onclick = () => openFicha(RUN.idx, false);
+    const se = $('#ovSe'); if (se) se.onclick = () => openFicha(RUN.idx, false);   // la ficha enseña el sello y la curiosidad nueva
+    const gu = $('#ovGu'); if (gu) gu.onclick = () => { const ids = nu.espIds || []; if (ids.length === 1) openEspecie(ids[0]); else openGuia(); };
     pintaFrutos($('#ovFru'), n, s.obj || {}, 26);
   }
 }

diff --git a/docs/app/dibujo.js b/docs/app/dibujo.js
@@ -625,12 +625,14 @@
 
   /* ---- Primer plano ---- */
   /* Plantas y piedras de Lanzarote dibujadas (flora.png): [x, y, ancho, alto] en el atlas y altura en el mundo */
-  const FLO = { ok: false, img: null, m: {"palmera": [0, 0, 203, 179, 3.3], "tabaibal": [205, 0, 227, 164, 1.6], "tunera": [434, 0, 172, 158, 1.5], "pita": [608, 0, 188, 143, 1.25], "vid": [798, 0, 200, 124, 1.0], "aloe": [0, 181, 147, 116, 1.3], "gris": [149, 181, 166, 112, 1.0], "bejeque": [317, 181, 160, 110, 1.05], "aulaga": [479, 181, 156, 110, 1.0], "morada": [637, 181, 143, 106, 0.95], "muro": [782, 181, 210, 106, 0.9], "salado": [0, 299, 145, 104, 0.9], "roca": [147, 299, 151, 104, 1.0], "hierba": [300, 299, 120, 84, 0.8], "piedra": [422, 299, 104, 80, 0.6], "rosas": [528, 299, 120, 80, 0.55], "amarillas": [650, 299, 135, 73, 0.5], "piedras": [787, 299, 112, 64, 0.45], "rojas": [0, 405, 152, 62, 0.45]},
+  const FLO = { ok: false, img: null, m: {"palmera": [0, 0, 203, 179, 3.3], "tabaibal": [205, 0, 227, 164, 1.6], "tunera": [434, 0, 172, 158, 1.5], "pita": [608, 0, 188, 143, 1.25], "vid": [798, 0, 200, 124, 1.0], "vid2": [0, 470, 200, 124, 1.0], "aloe": [0, 181, 147, 116, 1.3], "gris": [149, 181, 166, 112, 1.0], "bejeque": [317, 181, 160, 110, 1.05], "aulaga": [479, 181, 156, 110, 1.0], "morada": [637, 181, 143, 106, 0.95], "muro": [782, 181, 210, 106, 0.9], "salado": [0, 299, 145, 104, 0.9], "roca": [147, 299, 151, 104, 1.0], "hierba": [300, 299, 120, 84, 0.8], "piedra": [422, 299, 104, 80, 0.6], "rosas": [528, 299, 120, 80, 0.55], "amarillas": [650, 299, 135, 73, 0.5], "piedras": [787, 299, 112, 64, 0.45], "rojas": [0, 405, 152, 62, 0.45]},
     por: { tunera: ['tunera', 'tunera', 'bejeque', 'aloe'], cardon: ['tabaibal', 'aulaga', 'morada', 'gris', 'salado', 'bejeque', 'vid', 'palmera'], pita: ['pita', 'aloe'], piedra: ['piedra', 'piedras', 'roca', 'piedra'], flor: ['rojas', 'amarillas', 'rosas', 'hierba'] } };
   if (typeof Image !== 'undefined') { FLO.img = new Image(); FLO.img.onload = () => { FLO.ok = true; }; FLO.img.src = 'flora.png'; }
   function decoSprite(ctx, d, x, y, u) {
     const l = FLO.por[d.t]; if (!l) return false;
-    const n = l[Math.floor(hash(Math.floor(d.x * 7) + 5) * l.length)], m = FLO.m[n];
+    let n = l[Math.floor(hash(Math.floor(d.x * 7) + 5) * l.length)];
+    if (n === 'vid' && hash(Math.floor(d.x * 13) + 3) < 0.5) n = 'vid2';   // parra en su hoyo de picón: con zoco de piedra en media luna o sin muro
+    const m = FLO.m[n];
     const hh = m[4] * u * (0.85 + clamp((d.s - 0.75) / 1, 0, 1) * 0.35), ww = hh * m[2] / m[3];
     ctx.save(); ctx.translate(x, y + hh * 0.04); if (hash(Math.floor(d.x * 11)) < 0.5) ctx.scale(-1, 1);
     ctx.fillStyle = 'rgba(0,0,0,.25)'; ctx.beginPath(); ctx.ellipse(0, -hh * 0.03, ww * 0.42, hh * 0.07, 0, 0, TAU); ctx.fill();

diff --git a/www/dibujo.js b/www/dibujo.js
@@ -625,12 +625,14 @@
 
   /* ---- Primer plano ---- */
   /* Plantas y piedras de Lanzarote dibujadas (flora.png): [x, y, ancho, alto] en el atlas y altura en el mundo */
-  const FLO = { ok: false, img: null, m: {"palmera": [0, 0, 203, 179, 3.3], "tabaibal": [205, 0, 227, 164, 1.6], "tunera": [434, 0, 172, 158, 1.5], "pita": [608, 0, 188, 143, 1.25], "vid": [798, 0, 200, 124, 1.0], "aloe": [0, 181, 147, 116, 1.3], "gris": [149, 181, 166, 112, 1.0], "bejeque": [317, 181, 160, 110, 1.05], "aulaga": [479, 181, 156, 110, 1.0], "morada": [637, 181, 143, 106, 0.95], "muro": [782, 181, 210, 106, 0.9], "salado": [0, 299, 145, 104, 0.9], "roca": [147, 299, 151, 104, 1.0], "hierba": [300, 299, 120, 84, 0.8], "piedra": [422, 299, 104, 80, 0.6], "rosas": [528, 299, 120, 80, 0.55], "amarillas": [650, 299, 135, 73, 0.5], "piedras": [787, 299, 112, 64, 0.45], "rojas": [0, 405, 152, 62, 0.45]},
+  const FLO = { ok: false, img: null, m: {"palmera": [0, 0, 203, 179, 3.3], "tabaibal": [205, 0, 227, 164, 1.6], "tunera": [434, 0, 172, 158, 1.5], "pita": [608, 0, 188, 143, 1.25], "vid": [798, 0, 200, 124, 1.0], "vid2": [0, 470, 200, 124, 1.0], "aloe": [0, 181, 147, 116, 1.3], "gris": [149, 181, 166, 112, 1.0], "bejeque": [317, 181, 160, 110, 1.05], "aulaga": [479, 181, 156, 110, 1.0], "morada": [637, 181, 143, 106, 0.95], "muro": [782, 181, 210, 106, 0.9], "salado": [0, 299, 145, 104, 0.9], "roca": [147, 299, 151, 104, 1.0], "hierba": [300, 299, 120, 84, 0.8], "piedra": [422, 299, 104, 80, 0.6], "rosas": [528, 299, 120, 80, 0.55], "amarillas": [650, 299, 135, 73, 0.5], "piedras": [787, 299, 112, 64, 0.45], "rojas": [0, 405, 152, 62, 0.45]},
     por: { tunera: ['tunera', 'tunera', 'bejeque', 'aloe'], cardon: ['tabaibal', 'aulaga', 'morada', 'gris', 'salado', 'bejeque', 'vid', 'palmera'], pita: ['pita', 'aloe'], piedra: ['piedra', 'piedras', 'roca', 'piedra'], flor: ['rojas', 'amarillas', 'rosas', 'hierba'] } };
   if (typeof Image !== 'undefined') { FLO.img = new Image(); FLO.img.onload = () => { FLO.ok = true; }; FLO.img.src = 'flora.png'; }
   function decoSprite(ctx, d, x, y, u) {
     const l = FLO.por[d.t]; if (!l) return false;
-    const n = l[Math.floor(hash(Math.floor(d.x * 7) + 5) * l.length)], m = FLO.m[n];
+    let n = l[Math.floor(hash(Math.floor(d.x * 7) + 5) * l.length)];
+    if (n === 'vid' && hash(Math.floor(d.x * 13) + 3) < 0.5) n = 'vid2';   // parra en su hoyo de picón: con zoco de piedra en media luna o sin muro
+    const m = FLO.m[n];
     const hh = m[4] * u * (0.85 + clamp((d.s - 0.75) / 1, 0, 1) * 0.35), ww = hh * m[2] / m[3];
     ctx.save(); ctx.translate(x, y + hh * 0.04); if (hash(Math.floor(d.x * 11)) < 0.5) ctx.scale(-1, 1);
     ctx.fillStyle = 'rgba(0,0,0,.25)'; ctx.beginPath(); ctx.ellipse(0, -hh * 0.03, ww * 0.42, hh * 0.07, 0, 0, TAU); ctx.fill();
